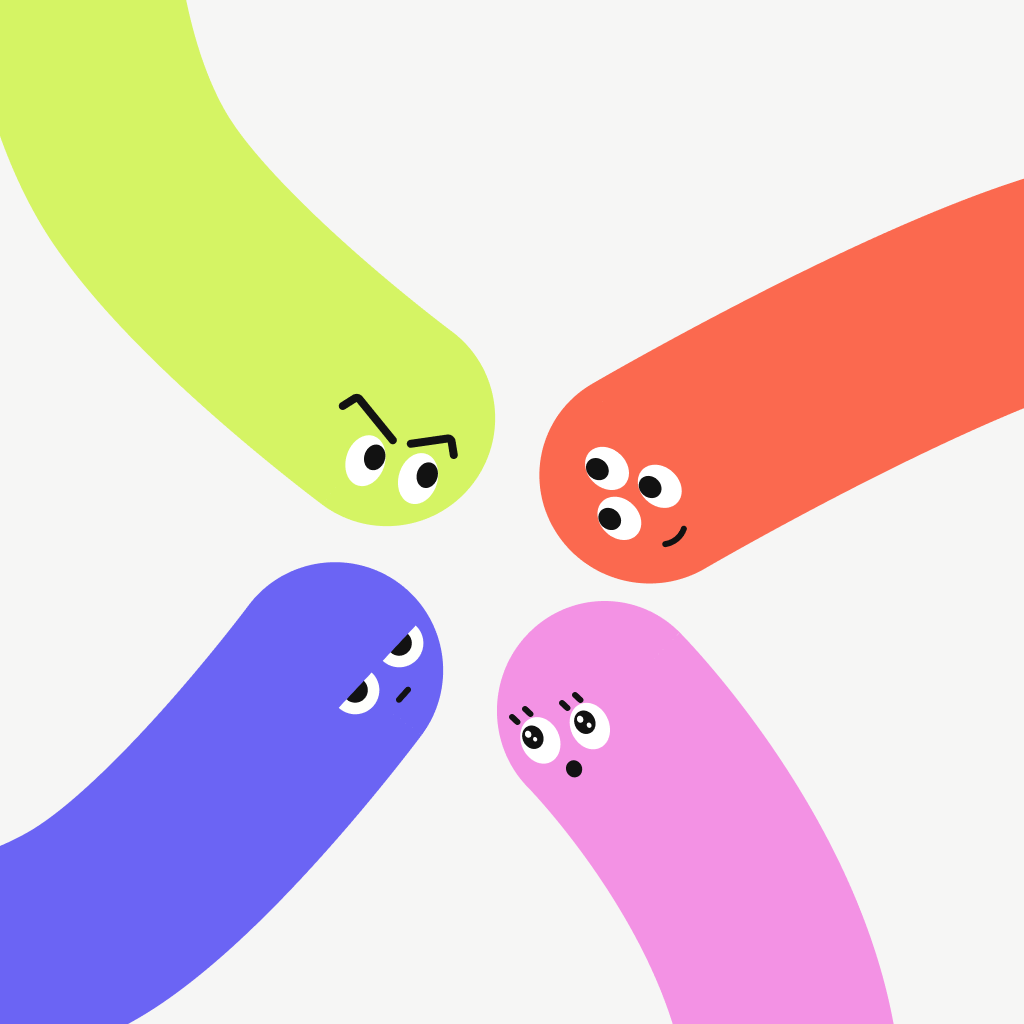
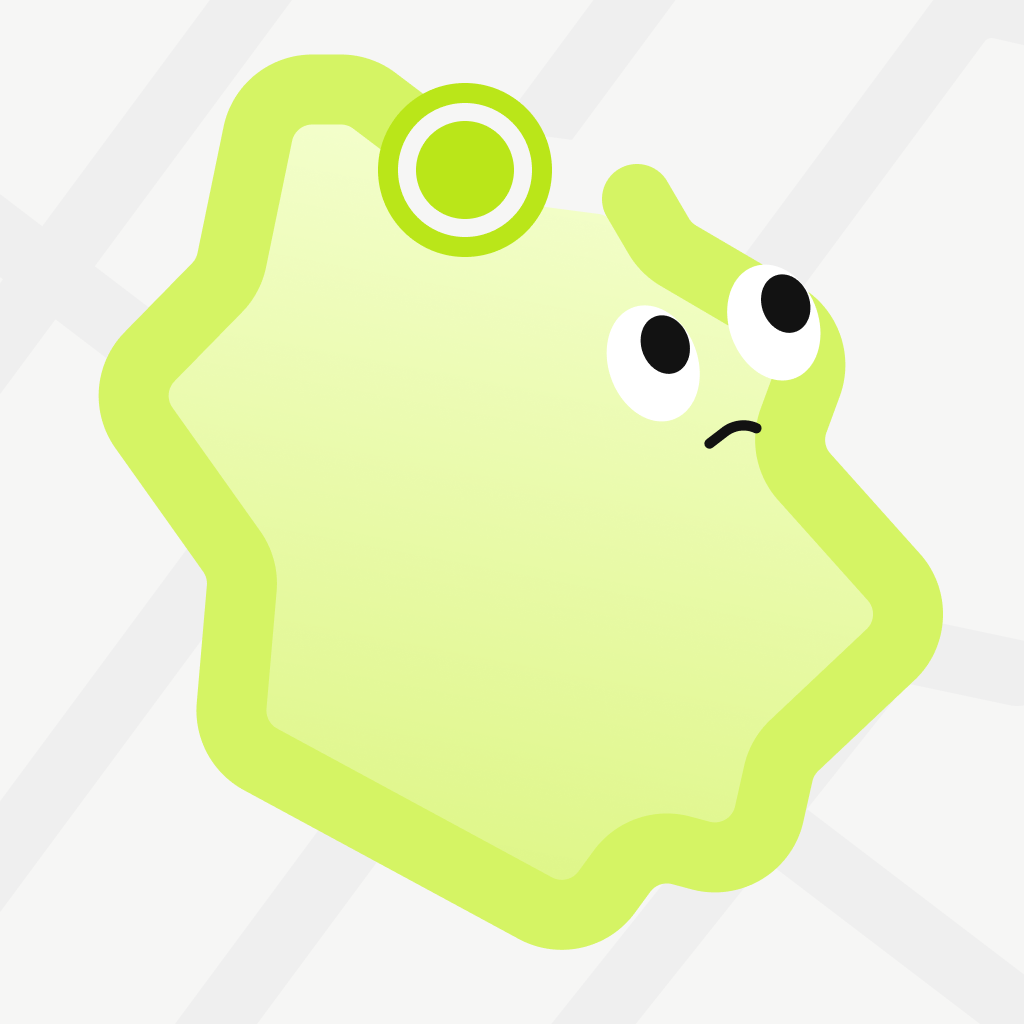
hero説明文を削除・作品タグを削除・mojimoji/ROUTONアイコン差し替え・メインコピー変更

diff --git a/index.html b/index.html
@@ -47,14 +47,9 @@
           </p>
           <h1 class="hero-title reveal">
             日常に<br />
-            <span class="ul">ポジティブ</span>な<br />
-            瞬間を。
+            <span class="ul">ポジティブ</span>を<br />
+            ちょっと
           </h1>
-          <p class="hero-lead reveal">
-            プロダクトデザイナー 鈴木颯也のポートフォリオ。<br />
-            UI・ブランド・プロダクトを横断して、
-            機能と情緒が調和したデザインを届けます。
-          </p>
           <div class="hero-actions reveal">
             <a href="#works" class="btn btn-blue">作品を見る <span class="arr">↗</span></a>
             <a href="#contact" class="btn btn-outline">お問い合わせ</a>
@@ -107,9 +102,6 @@
               <img src="images/work-sanpo.png" alt="さんぽしよ アプリアイコン" loading="lazy" />
             </div>
             <div class="work-body">
-              <div class="tags">
-                <span class="tag">個人開発</span><span class="tag">UI</span><span class="tag">iOS</span>
-              </div>
               <h3 class="work-title">さんぽしよ</h3>
               <p class="work-desc">
                 ゆるく散歩を楽しむための、お題提案アプリ。「マンホールを撮る」などの
@@ -123,9 +115,6 @@
               <img src="images/work-mojimoji.png" alt="mojimoji アプリアイコン" loading="lazy" />
             </div>
             <div class="work-body">
-              <div class="tags">
-                <span class="tag">個人開発</span><span class="tag">UI</span><span class="tag">タイポグラフィ</span>
-              </div>
               <h3 class="work-title">mojimoji</h3>
               <p class="work-desc">
                 街中で見つけた文字をあつめて、つなげて言葉にする。
@@ -139,9 +128,6 @@
               <img src="images/work-routon.png" alt="ROUTON アプリアイコン" loading="lazy" />
             </div>
             <div class="work-body">
-              <div class="tags">
-                <span class="tag">個人開発</span><span class="tag">UI</span><span class="tag">GPS</span>
-              </div>
               <h3 class="work-title">ROUTON</h3>
               <p class="work-desc">
                 歩いた道が、いきものになる。GPSで描いた軌跡がキャラクターに変化する、